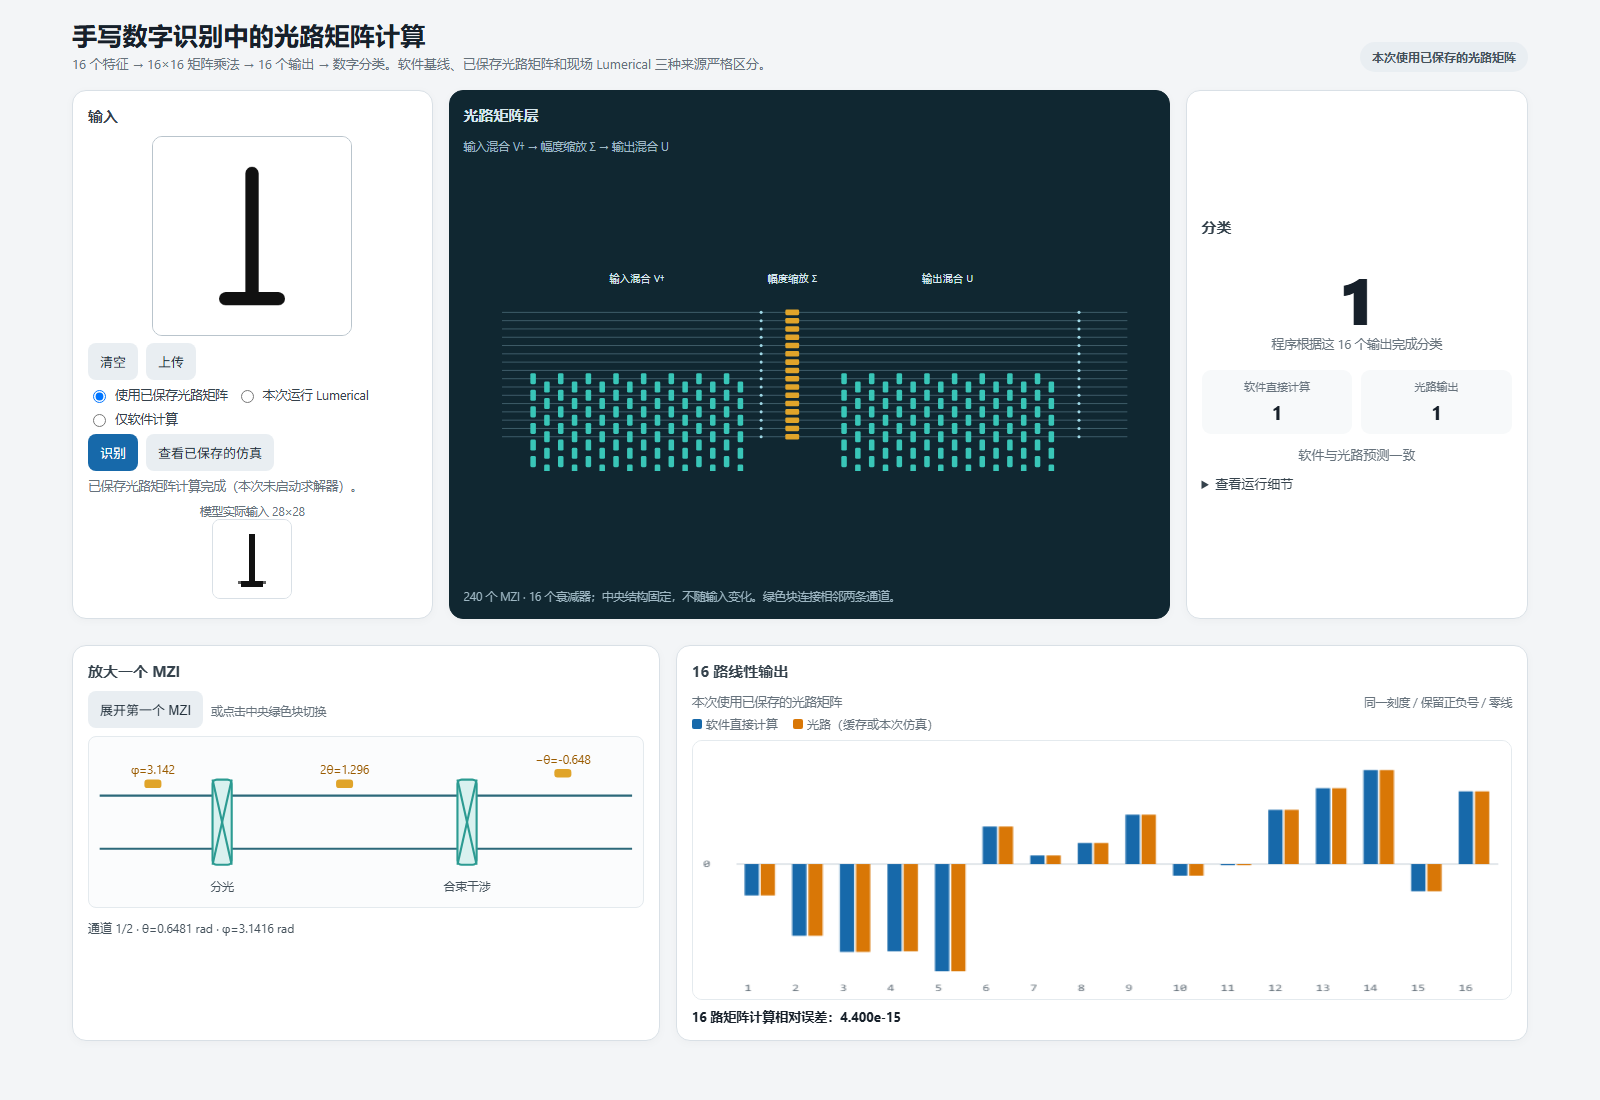
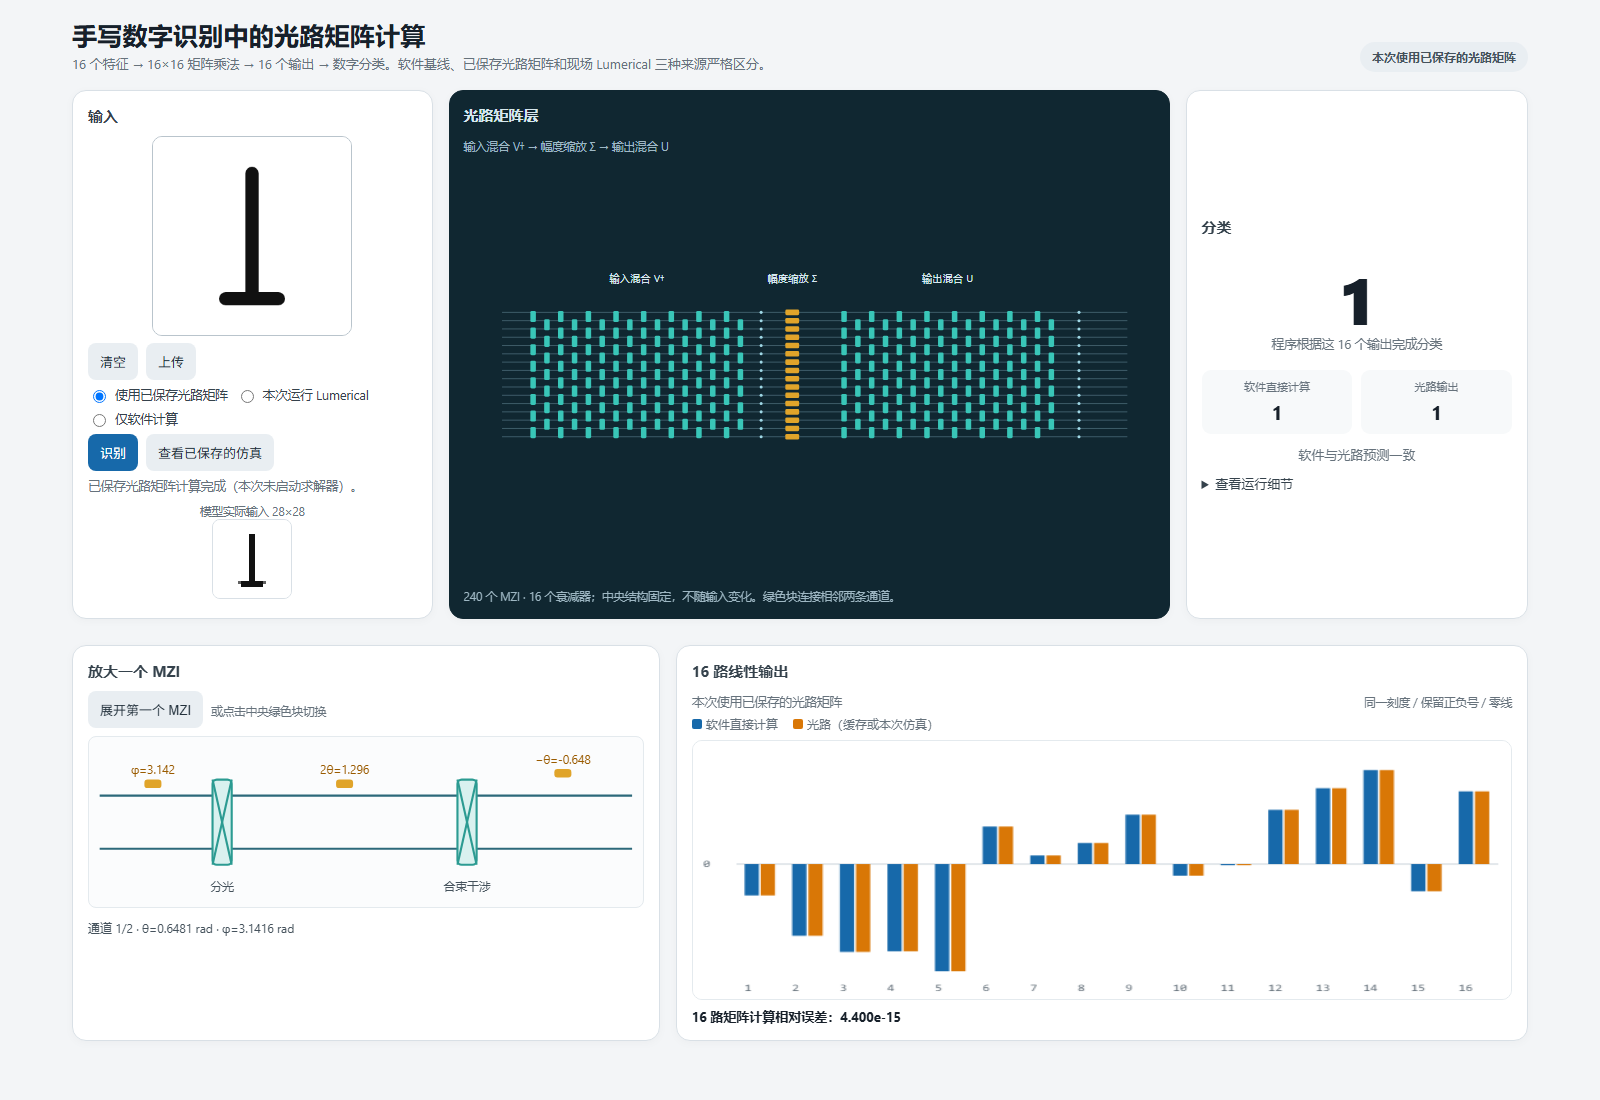
Fix MZI gate vertical alignment

Changed region(s): [[0.3125, 0.2782, 0.4688, 0.4327], [0.5312, 0.2782, 0.6562, 0.4327]]

diff --git a/lumerical/live_digit_ui.py b/lumerical/live_digit_ui.py
@@ -223,7 +223,7 @@ function placeMesh(ops, left, right){
     return {m,theta,phi,column};
   });
   const columns=1+Math.max(...last);
-  return gates.map(g=>({...g,x:left+(g.column+.5)*(right-left)/columns,y:160+12*g.m}));
+  return gates.map(g=>({...g,x:left+(g.column+.5)*(right-left)/columns,y:70+12*g.m}));
 }
 function renderTopology(id, topo, interactive){
   const svg=document.getElementById(id); svg.innerHTML='';
